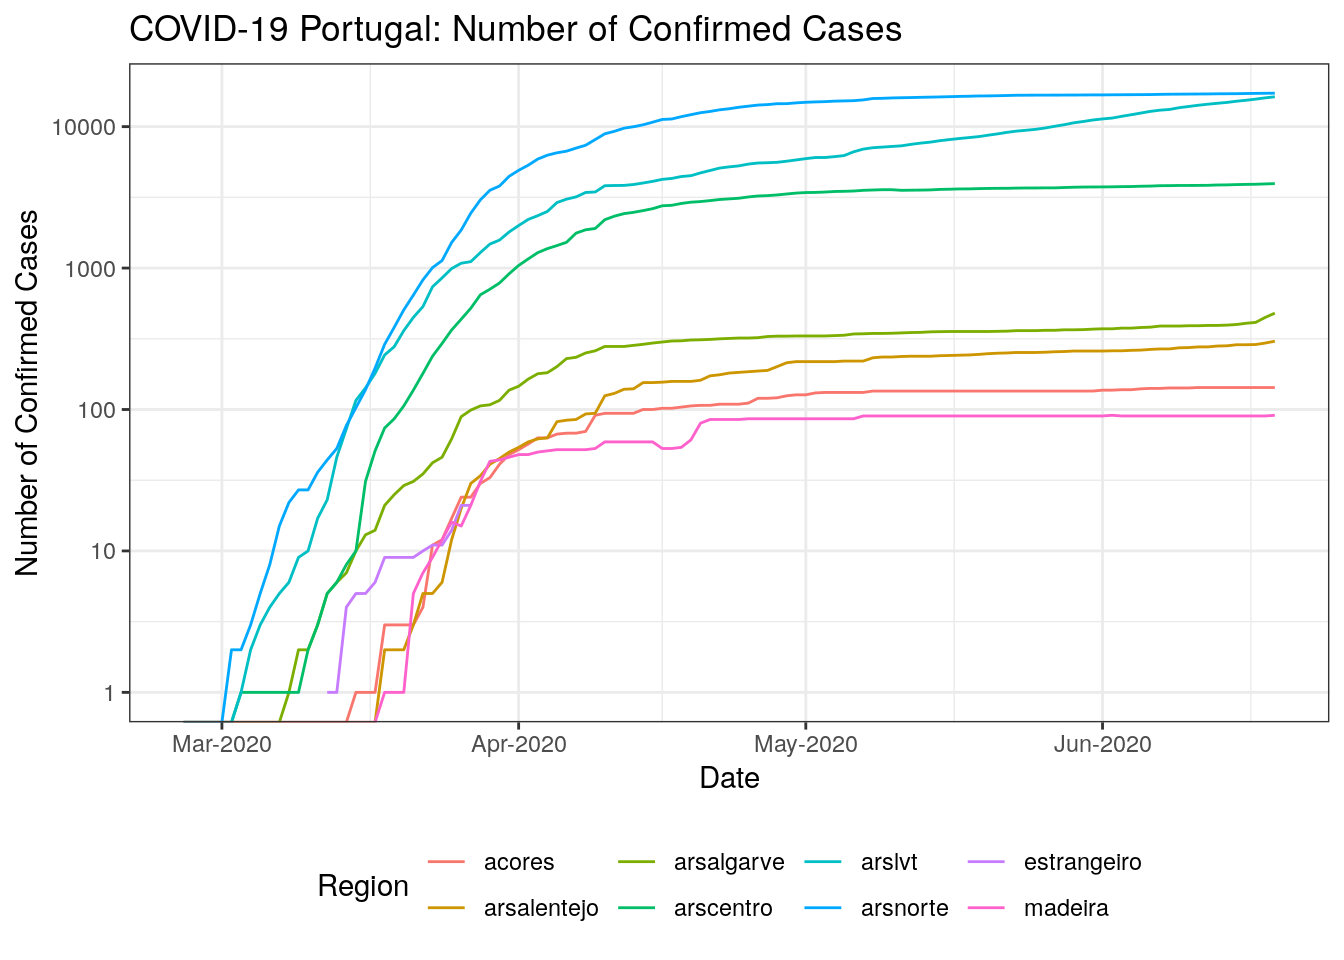
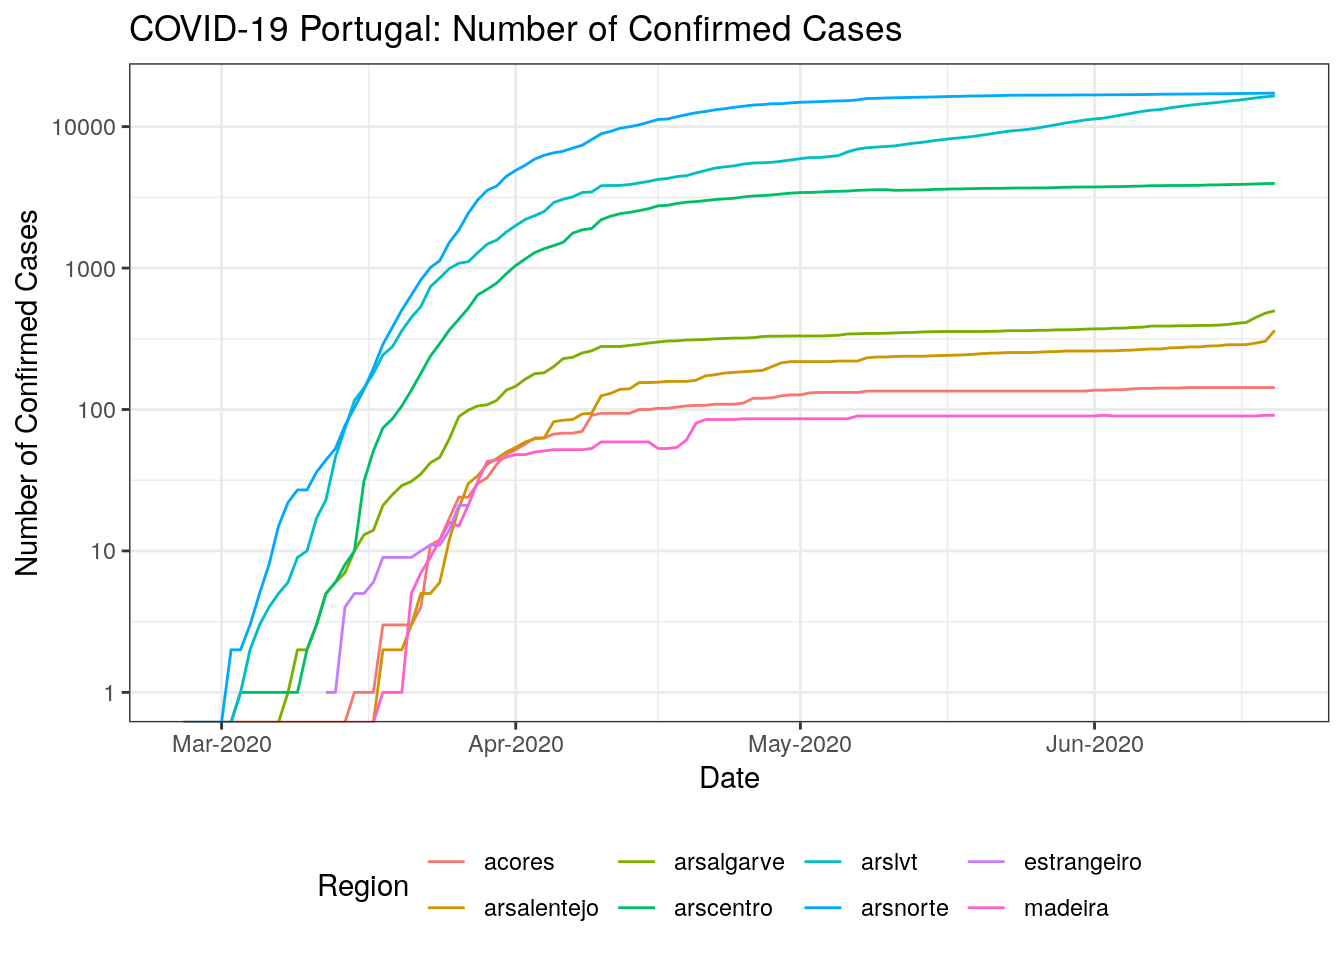
Data updated

diff --git a/README.md b/README.md
@@ -1,7 +1,7 @@
 
 # Portuguese COVID-19 Data
 
-**Last updated:** Sat 20 Jun 2020 (10:24:35 WEST (+0100))
+**Last updated:** Sun 21 Jun 2020 (14:05:15 WEST (+0100))
 
 ## Source
 
@@ -42,7 +42,7 @@ theme_set(theme_bw())
 # Read in data as a data.frame and data.table object.
 CV <- fread(here("data", "covid19pt_DSSG_Long.csv"))
 str(CV)
-## Classes 'data.table' and 'data.frame':   9660 obs. of  13 variables:
+## Classes 'data.table' and 'data.frame':   9744 obs. of  13 variables:
 ##  $ data       : chr  "2020-02-26" "2020-02-27" "2020-02-28" "2020-02-29" ...
 ##  $ data_dados : chr  "26-02-2020 00:00" "27-02-2020 00:00" "28-02-2020 00:00" "29-02-2020 00:00" ...
 ##  $ origVars   : chr  "cadeias_transmissao" "cadeias_transmissao" "cadeias_transmissao" "cadeias_transmissao" ...
@@ -100,7 +100,7 @@ CV[origType=="confirmados" & ageGrp=="" & region!="Portugal"] %>%
     y = "Number of Confirmed Cases",
     colour = "Region")
 ## Warning: Transformation introduced infinite values in continuous y-axis
-## Warning: Removed 99 row(s) containing missing values (geom_path).
+## Warning: Removed 100 row(s) containing missing values (geom_path).
 ```
 
 <img src="README_figs/README-casesbyRegion-1.png" width="672" />
@@ -119,9 +119,9 @@ CV[dayChange<0][
 ##   4: 2020-03-24 confirmados_40_49_f   224        -2
 ##   5: 2020-03-19 confirmados_60_69_f    35       -14
 ##  ---                                               
-## 267: 2020-06-05          vigilancia 28088      -597
-## 268: 2020-06-08          vigilancia 28791      -521
-## 269: 2020-06-13          vigilancia 30655      -124
-## 270: 2020-06-17          vigilancia 30289      -521
-## 271: 2020-06-19          vigilancia 29046     -1380
+## 269: 2020-06-05          vigilancia 28088      -597
+## 270: 2020-06-08          vigilancia 28791      -521
+## 271: 2020-06-13          vigilancia 30655      -124
+## 272: 2020-06-17          vigilancia 30289      -521
+## 273: 2020-06-19          vigilancia 29046     -1380
 ```
